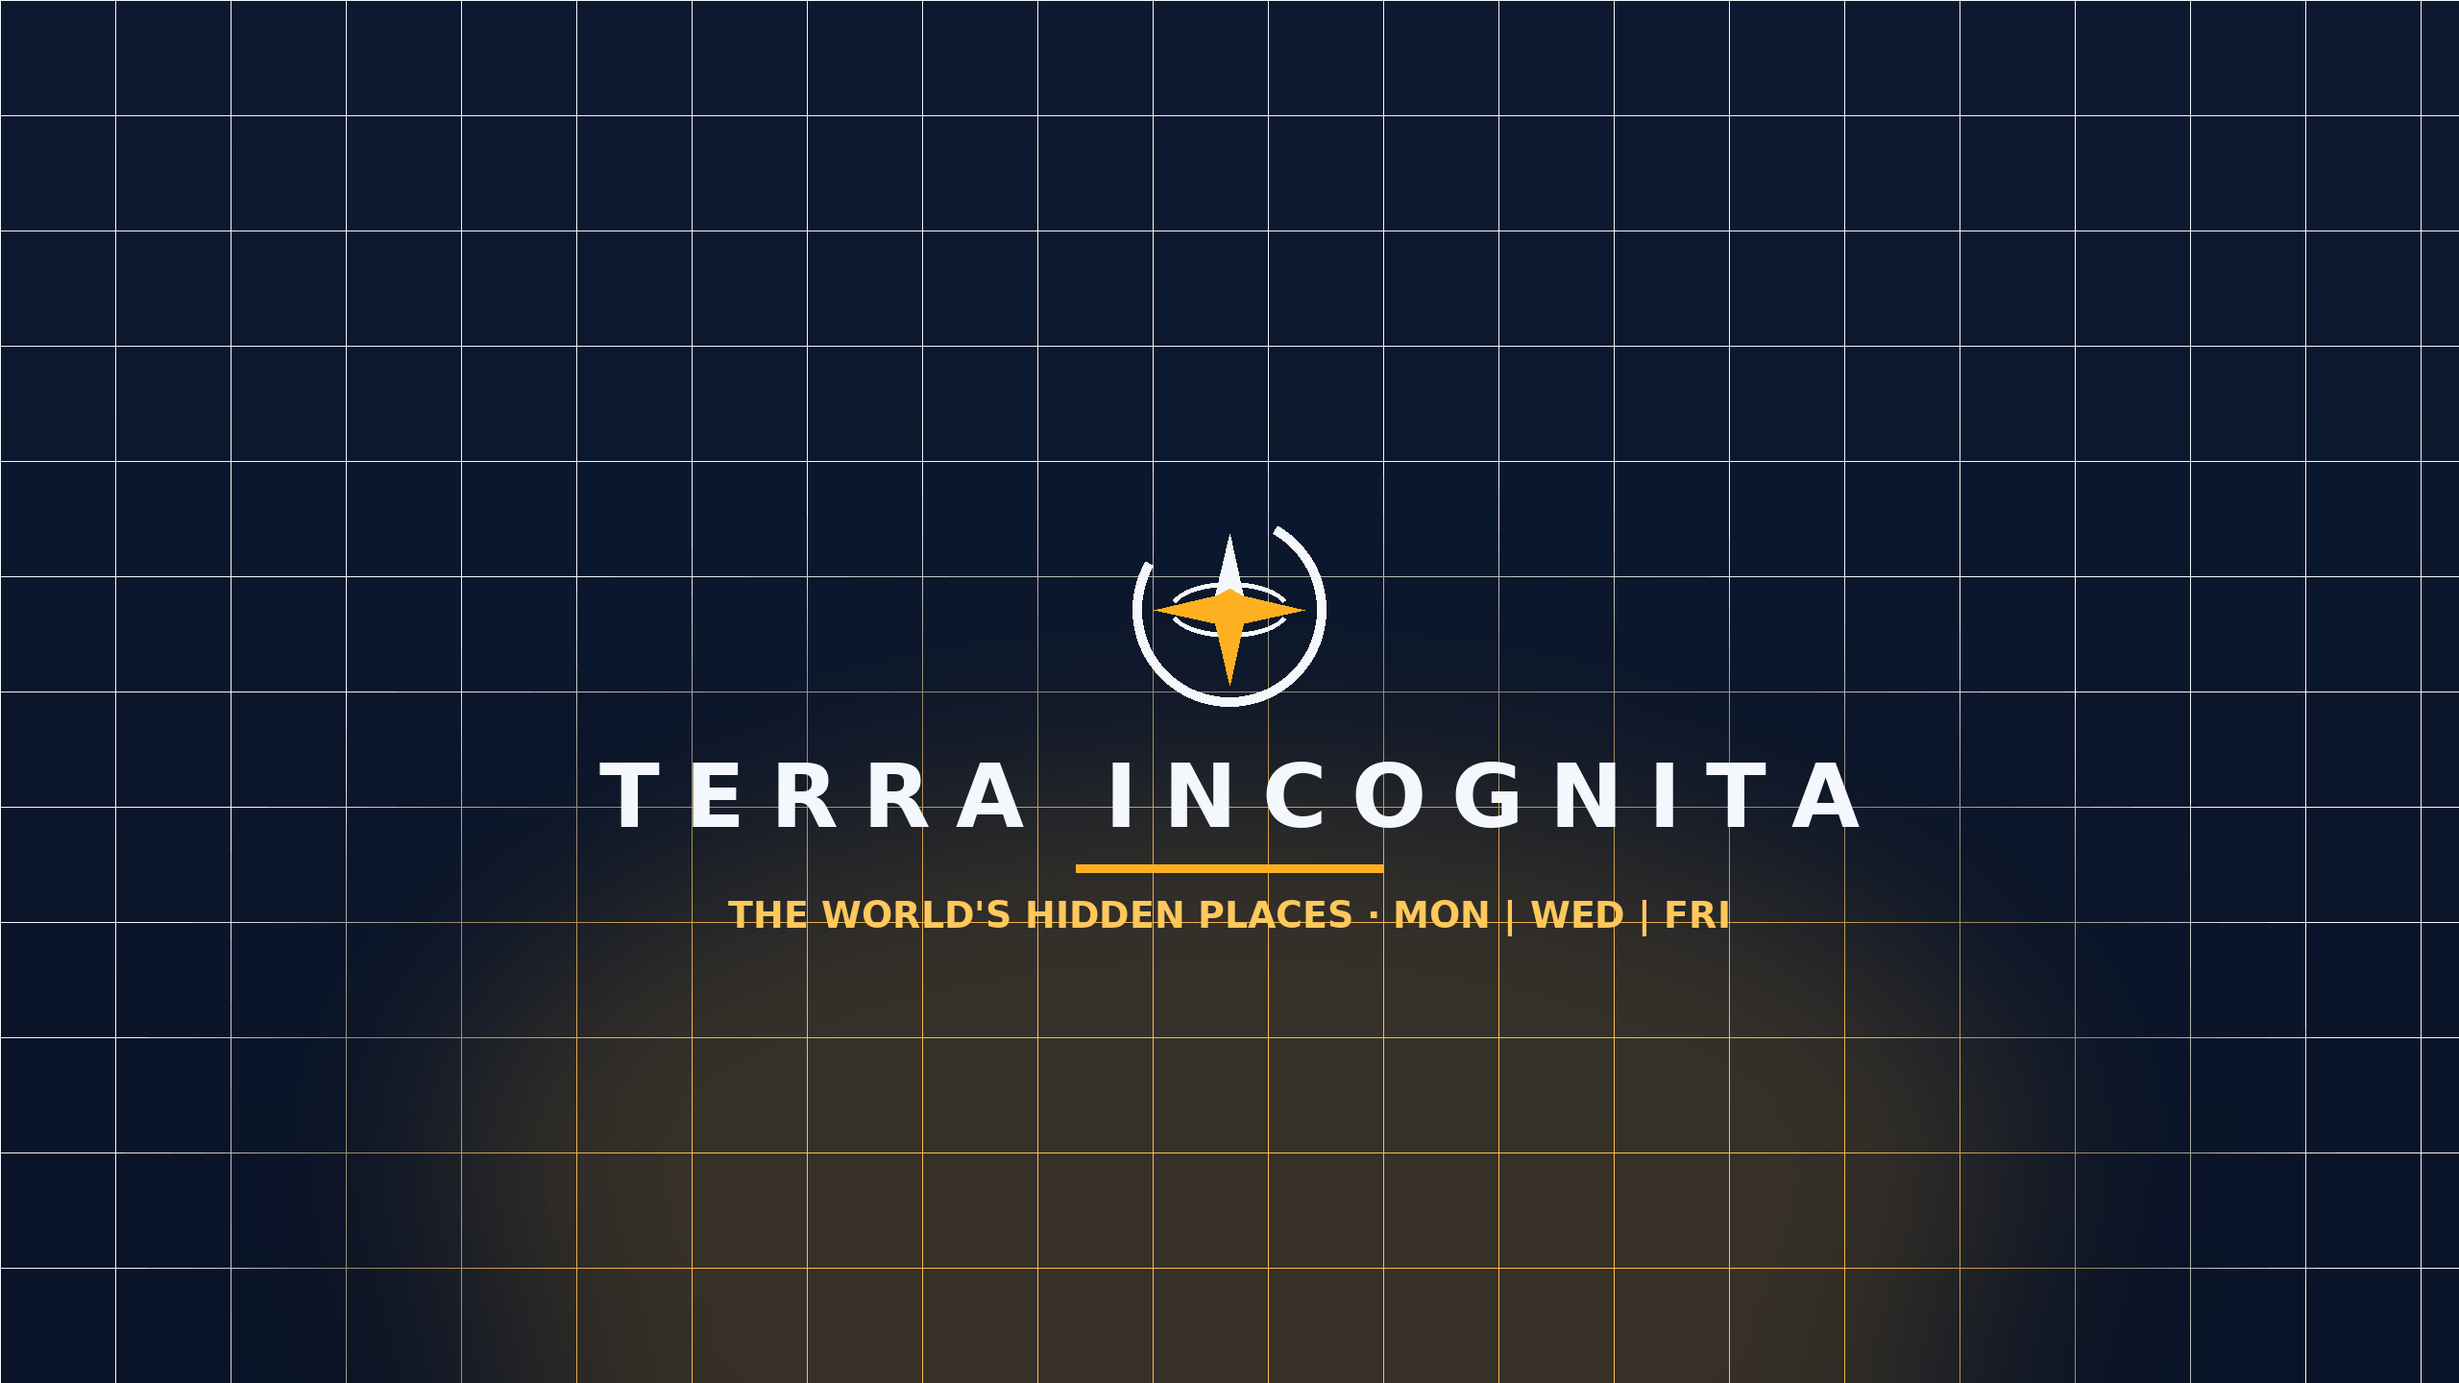
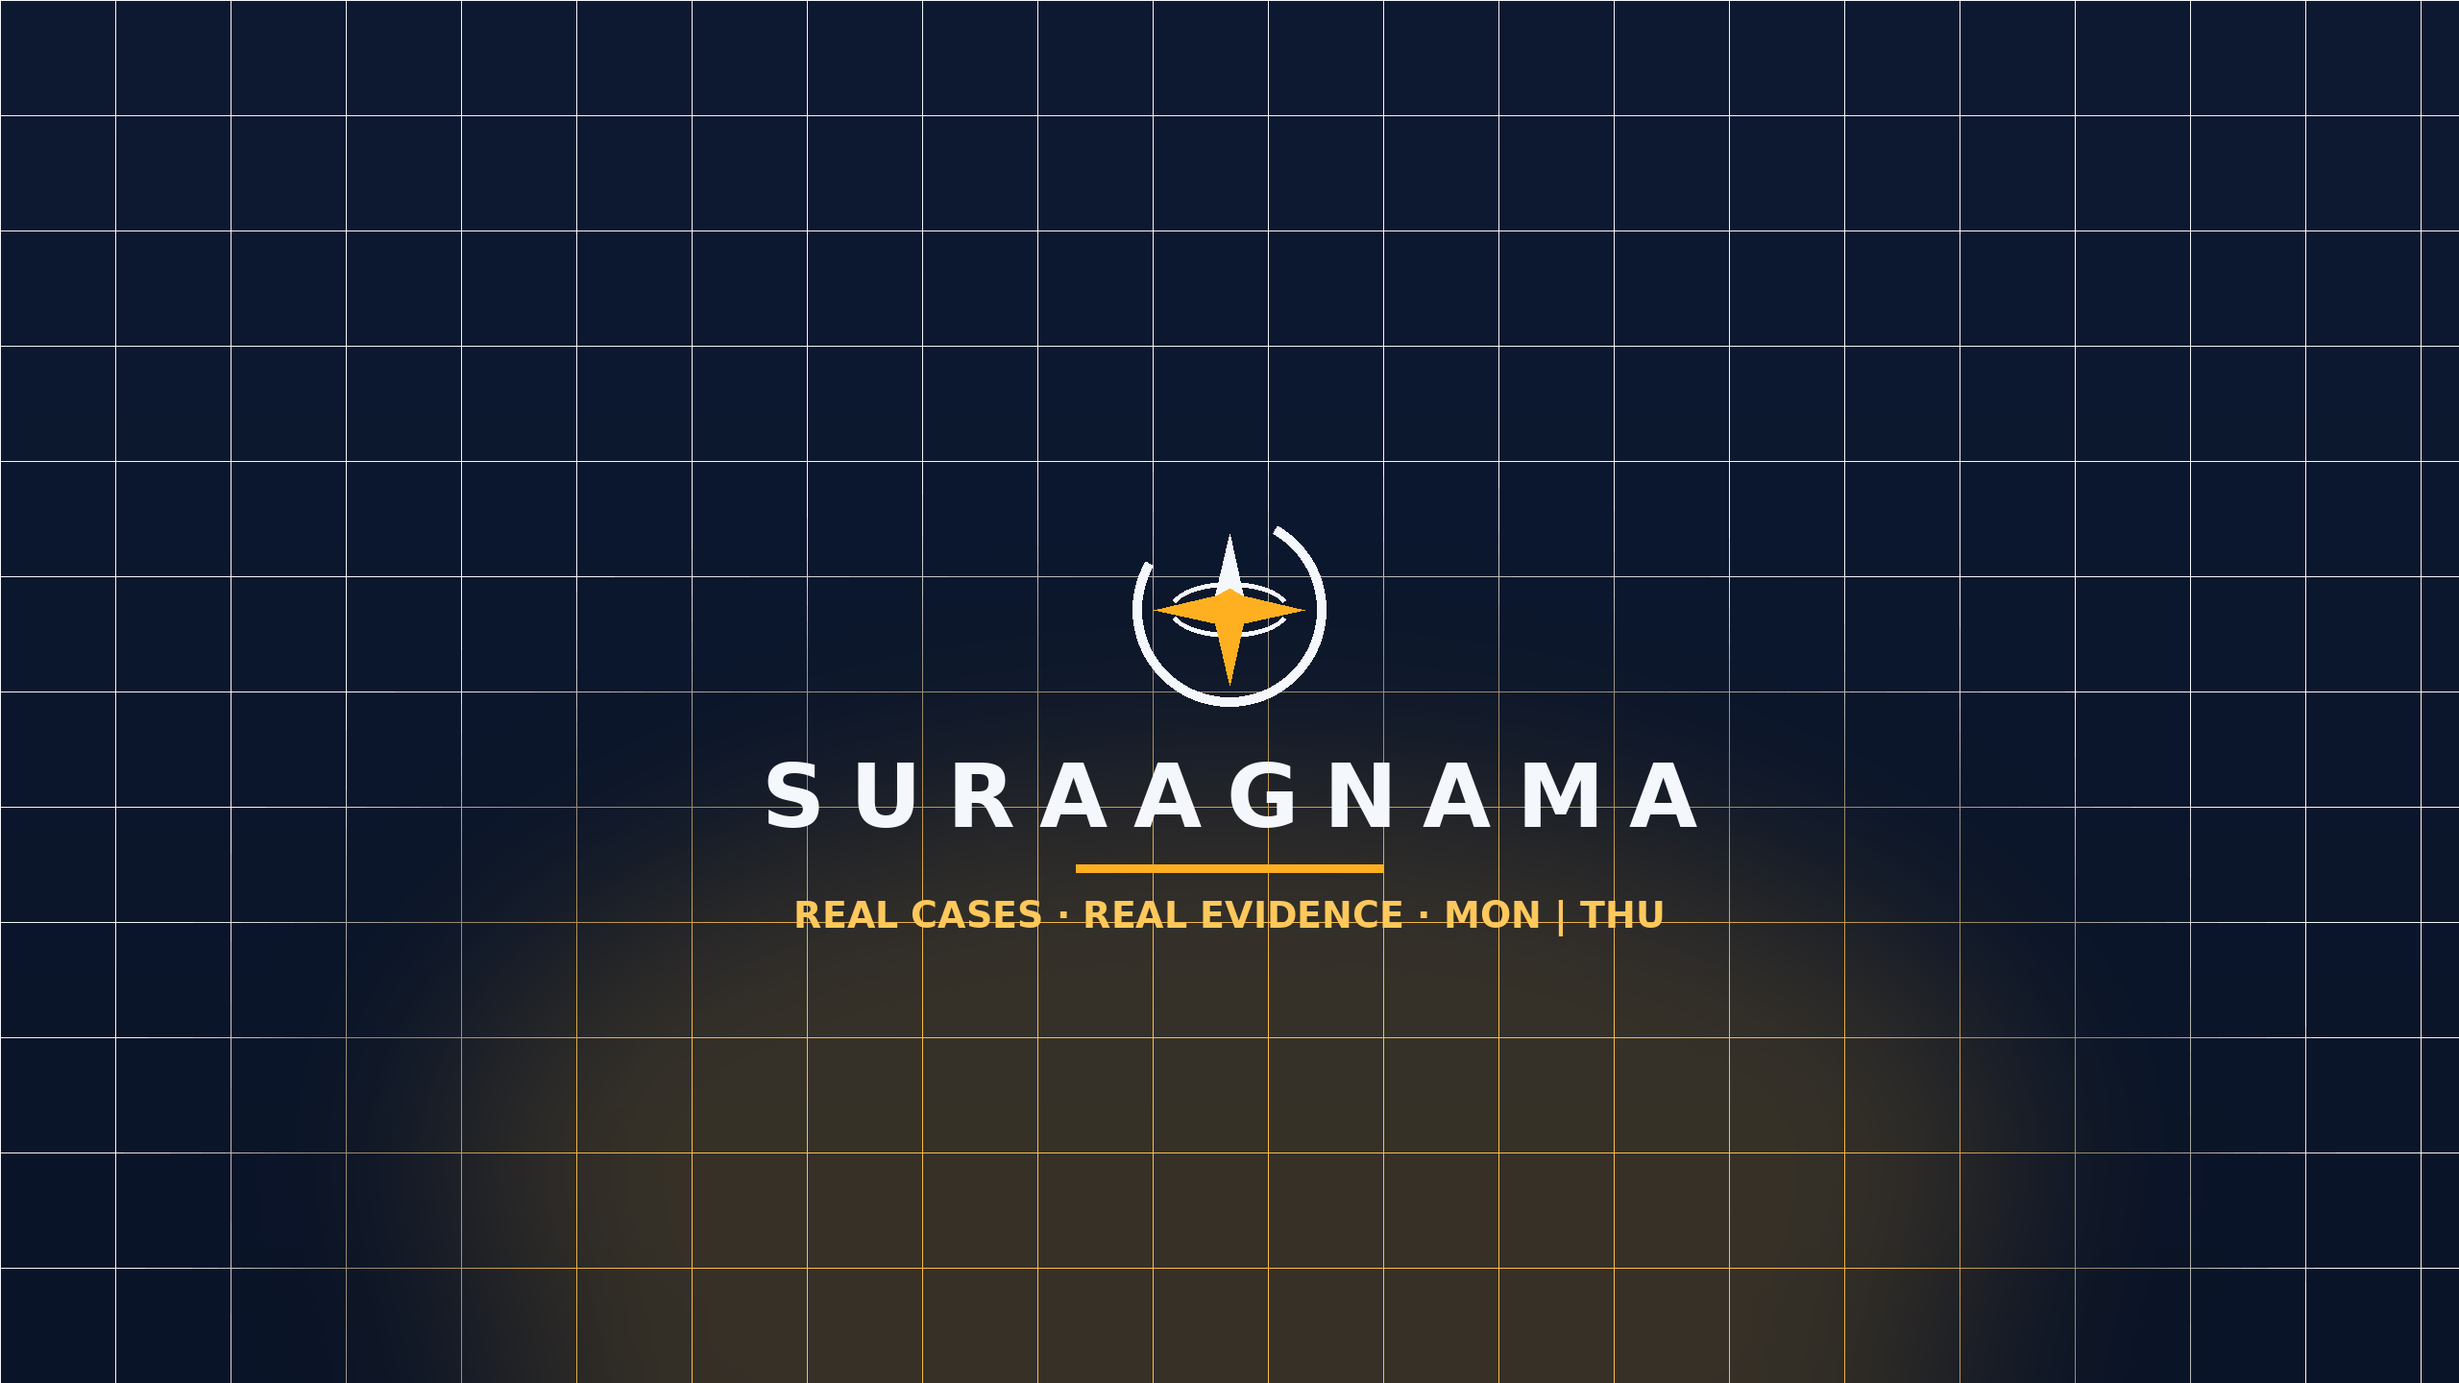
Rebrand: Terra Incognita -> SURAAGNAMA (सुरागनामा)
"Terra Incognita" is Latin, unspellable for a Hindi audience, and still
promises the space/deep-sea channel the August CASE_FILE_PIVOT retired. The
28-day export shows YouTube Search converting at 0:00:27 across 302
impressions, and 183 new viewers against 8 returning and 0 regular — a recall
failure a name nobody can repeat cannot fix.

SURAAGNAMA is सुराग (clue) + -नामा, the Indo-Persian suffix for a written
record (रोज़नामा, बयाननामा, इक़रारनामा): "the record of clues". It names the
engine the pivot doc specifies — clue -> theory -> problem, every scene — and
the -नामा register reads as a records office rather than a ghost story, which
is the separation from the horror-coded Hindi mystery channels the thumbnails
already engineer. The palette does not move: #0A1428 and #FFB020 are why the
thumbnails don't look like that niche.

Handle @suraagnama verified free by direct fetch. NOTE for anyone revisiting
this: web search does NOT screen YouTube names — six of ten candidates we
checked were occupied by live channels and none of them appeared in search
results (@sabootnama and @khamoshsaboot are both Hindi mystery-case channels;
@khulifile and @filekhol are Hindi news). Fetch youtube.com/@handle and look
for a 404. Never brand on the bare word सुराग: that belongs to SAB Network's
Suraag Special and Doordarshan's Suraag - The Clue.

Also fixes metadata that has been stale since the pivot, independent of the
[…]

Changed region(s): [[0.25, 0.5312, 0.75, 0.625], [0.3125, 0.625, 0.7188, 0.6875]]

diff --git a/remotion/src/Root.tsx b/remotion/src/Root.tsx
@@ -18,13 +18,13 @@ const FALLBACK = {
   style: 'documentary',
   accent: '#FFB020',
   progressBar: true,
-  brandName: 'TERRA INCOGNITA',
-  brandTagline: "Mapping the world's hidden places",
+  brandName: 'SURAAGNAMA',
+  brandTagline: 'असली केस। असली सबूत। बिना जवाब के सवाल।',
   watermarkPath: null as string | null,
   watermarkOpacity: 0.08,
   outroSeconds: 4,
   captionY: 0.78,
-  title: 'Terra Incognita',
+  title: 'Suraagnama',
   thumbText: 'PREVIEW',
   thumbAiPath: null as string | null,
   motionSeed: 'preview',

diff --git a/remotion/src/Main.tsx b/remotion/src/Main.tsx
@@ -342,8 +342,8 @@ export const Main: React.FC<{manifest: Manifest}> = ({manifest: m}) => {
   items.push(
     <TransitionSeries.Sequence key="outro" durationInFrames={outroFrames}>
       <Outro
-        brandName={m.brandName || 'TERRA INCOGNITA'}
-        tagline={m.brandTagline || "Mapping the world's hidden places"}
+        brandName={m.brandName || 'SURAAGNAMA'}
+        tagline={m.brandTagline || 'असली केस। असली सबूत। बिना जवाब के सवाल।'}
         style={style}
         watermarkPath={m.watermarkPath}
       />

diff --git a/remotion/src/Thumb.tsx b/remotion/src/Thumb.tsx
@@ -81,7 +81,7 @@ export const Thumb: React.FC<{manifest: Manifest}> = ({manifest: m}) => {
           <Img src={staticFile(m.watermarkPath)} style={{width: 26, height: 26}} />
         ) : null}
         <span style={{color: BRAND.text, fontSize: 21, fontWeight: 800,
-          letterSpacing: 4}}>TERRA INCOGNITA</span>
+          letterSpacing: 4}}>SURAAGNAMA</span>
       </div>
 
       {/* dramatic Devanagari headline, top-right */}

diff --git a/remotion/src/graphics.tsx b/remotion/src/graphics.tsx
@@ -239,7 +239,7 @@ const FallbackGraphic: React.FC<{
         opacity: 0.58, boxShadow: `0 0 24px ${style.accent}`}} />
       <div style={{position: 'absolute', left: '7%', bottom: '7%',
         color: 'rgba(205,216,236,0.62)', fontSize: 18, fontWeight: 700,
-        letterSpacing: 5}}>TERRA INCOGNITA · EVIDENCE MAP</div>
+        letterSpacing: 5}}>SURAAGNAMA · EVIDENCE MAP</div>
     </Canvas>
   );
 };

diff --git a/pipeline/run.py b/pipeline/run.py
@@ -1,4 +1,4 @@
-"""Faceless Autopilot — orchestrator (Terra Incognita edition, Hindi).
+"""Faceless Autopilot — orchestrator (Suraagnama edition, Hindi).
 
 topic -> script (Hindi) -> voiceover (Sarvam cloned voice, Kokoro fallback)
 -> assets (AI + stock, never-repeat log) -> captions -> Remotion render
@@ -108,26 +108,28 @@ def thumbnail_remotion(manifest_path: str, workdir: str, thumb_path: str) -> Non
 # strongest text signal we control; the tag mix decides which Hindi cluster
 # we land in. (Per-video "Video language: Hindi" in Studio still matters most.)
 
-INDIA_DESC_HEADER = ("\U0001F1EE\U0001F1F3 \u0939\u093f\u0902\u0926\u0940 \u092e\u0947\u0902 space \u0914\u0930 science \u0915\u0940 \u0916\u094b\u091c \u2014 TERRA INCOGNITA\n\n")
+INDIA_DESC_HEADER = ("🇮🇳 असली केस, असली सबूत — अनसुलझे रहस्य हिंदी में | सुरागनामा\n\n")
 
 # Evergreen Hindi discovery tags — what an Indian viewer actually types.
-BASE_HINDI_TAGS = ["\u0939\u093f\u0902\u0926\u0940 \u092e\u0947\u0902 \u0935\u093f\u091c\u094d\u091e\u093e\u0928",       # हिंदी में विज्ञान
-                   "\u0935\u093f\u091c\u094d\u091e\u093e\u0928 \u0915\u0947 \u0930\u0939\u0938\u094d\u092f",              # विज्ञान के रहस्य
-                   "\u092c\u094d\u0930\u0939\u094d\u092e\u093e\u0902\u0921 \u0915\u0947 \u0930\u0939\u0938\u094d\u092f",  # ब्रह्मांड के रहस्य
-                   "\u0905\u0902\u0924\u0930\u093f\u0915\u094d\u0937 \u0939\u093f\u0902\u0926\u0940",                        # अंतरिक्ष हिंदी
-                   "\u0939\u093f\u0902\u0926\u0940",                                                                                  # हिंदी
-                   "\u092d\u093e\u0930\u0924",                                                                                        # भारत
-                   "hindi science", "space hindi", "science in hindi",
-                   "hindi documentary"]
+# Post-CASE_FILE_PIVOT these name the case-file cluster, NOT space/science:
+# the first two description lines and this tag mix decide which Hindi cluster
+# YouTube files the channel under.
+BASE_HINDI_TAGS = ["असली केस",
+                   "अनसुलझा रहस्य",
+                   "रहस्यमयी घटना",
+                   "अनसुलझे रहस्य",
+                   "सच्ची कहानी",
+                   "हिंदी",
+                   "भारत",
+                   "hindi mystery", "unsolved mystery hindi",
+                   "real case hindi", "hindi documentary"]
 
 # Hinglish search terms — how young Indian viewers actually type on mobile.
-HINGLISH_TAGS = ["vigyan hindi", "brahmand rahasya", "antariksh hindi"]
+HINGLISH_TAGS = ["asli case hindi", "ansuljha rahasya", "rahasyamayi ghatna"]
 
-SUBSCRIBE_CTA = ("\U0001F514 \u0910\u0938\u0940 \u0939\u0940 \u0916\u094b\u091c\u094b\u0902 \u0915\u0947 \u0932\u093f\u090f "
-                 "\u0938\u092c\u094d\u0938\u0915\u094d\u0930\u093e\u0907\u092c \u0915\u0930\u0947\u0902 \u2014 "
-                 "TERRA INCOGNITA")   # 🔔 ऐसी ही खोजों के लिए सब्सक्राइब करें
-BASE_HASHTAGS = ["#\u0939\u093f\u0902\u0926\u0940", "#\u0935\u093f\u091c\u094d\u091e\u093e\u0928",
-                 "#\u092d\u093e\u0930\u0924"]   # #हिंदी #विज्ञान #भारत
+SUBSCRIBE_CTA = ("\U0001F514 ऐसी ही फ़ाइलों के लिए सब्सक्राइब करें — "
+                 "सुरागनामा")   # 🔔 ऐसी ही फ़ाइलों के लिए सब्सक्राइब करें
+BASE_HASHTAGS = ["#हिंदी", "#रहस्य", "#असलीकेस"]
 
 
 def _india_tags(tags: list, is_short: bool = False) -> list:
@@ -1289,7 +1291,7 @@ def main() -> None:
 
 *Assets: Pexels + licensed AI images{(' + Wikimedia Commons' if commons_credits else '')}. Voice: {voice_line}
 (your cloned Sarvam voice; Kokoro Apache-2.0 fallback). Motion design:
-Remotion. Brand: Terra Incognita.*
+Remotion. Brand: Suraagnama.*
 """
     with open(os.path.join(outdir, "metadata.md"), "w", encoding="utf-8") as f:
         f.write(meta)

diff --git a/brand/generate_brand.py b/brand/generate_brand.py
@@ -1,4 +1,4 @@
-"""Terra Incognita brand kit generator (deep navy + amber).
+"""Suraagnama brand kit generator (deep navy + amber).
 
 Regenerates every static brand asset deterministically with PIL:
   logo.png (2000x500 transparent)  logo_mark.png (1024)  banner.png (2560x1440)
@@ -84,7 +84,7 @@ def wordmark(d: ImageDraw.ImageDraw, xy, size: int, spacing: int = None):
     x, y = xy
     f1 = font(size)
     spacing = spacing if spacing is not None else int(size * 0.28)
-    for ch in "TERRA INCOGNITA":
+    for ch in "SURAAGNAMA":
         d.text((x, y), ch, font=f1, fill=TEXT)
         x += d.textlength(ch, font=f1) + spacing
     return x
@@ -98,7 +98,7 @@ def make_logo():
     end_x = wordmark(d, (520, 150), 130)
     d.rectangle([520, 330, end_x - 36, 342], fill=AMBER)
     f2 = font(44)
-    d.text((524, 368), "MAPPING THE WORLD'S HIDDEN PLACES", font=f2,
+    d.text((524, 368), "REAL CASES · REAL EVIDENCE · NO ANSWERS", font=f2,
            fill=AMBER_SOFT)
     img.save(os.path.join(OUT, "logo.png"))
 
@@ -131,7 +131,7 @@ def make_banner():
     mark = draw_mark(240)
     img.paste(mark, (cx - 120, cy - 205), mark)
     f1 = font(92)
-    text = "TERRA INCOGNITA"
+    text = "SURAAGNAMA"
     spacing = 26
     total = sum(d.textlength(ch, font=f1) + spacing for ch in text) - spacing
     x = cx - total / 2
@@ -140,7 +140,7 @@ def make_banner():
         x += d.textlength(ch, font=f1) + spacing
     d.rectangle([cx - 160, cy + 180, cx + 160, cy + 188], fill=AMBER)
     f2 = font(38)
-    sub = "THE WORLD'S HIDDEN PLACES · MON | WED | FRI"
+    sub = "REAL CASES · REAL EVIDENCE · MON | THU"
     d.text((cx - d.textlength(sub, font=f2) / 2, cy + 210), sub, font=f2,
            fill=(255, 200, 92, 255))
     img.convert("RGB").save(os.path.join(OUT, "banner.png"))

diff --git a/tests/test_quality_report.py b/tests/test_quality_report.py
@@ -139,7 +139,7 @@ def test_description_leads_with_devanagari_and_ends_with_hashtags():
     ns = _meta_ns()
     out = ns["build_description"](SCRIPT, is_short=False, chapters="0:00 शुरुआत")
     assert out.startswith("\U0001F1EE\U0001F1F3")          # 🇮🇳 first
-    assert "TERRA INCOGNITA" in out.split("\n")[0]
+    assert "सुरागनामा" in out.split("\n")[0]
     assert "मंगल पर पहला कदम" in out                        # body preserved
     assert "0:00 शुरुआत" in out                             # chapters inline
     assert "सब्सक्राइब" in out                               # Hindi CTA
@@ -156,9 +156,9 @@ def test_short_description_has_shorts_hashtag_and_no_chapters():
 def test_tags_are_hindi_first_and_within_youtube_limit():
     ns = _meta_ns()
     tags = ns["_india_tags"](SCRIPT["tags"])
-    assert tags[0] == "हिंदी में विज्ञान"        # evergreen Hindi leads
+    assert tags[0] == "असली केस"                 # the case-file cluster leads
     assert "मंगल ग्रह" in tags                    # topic tags preserved
-    assert "hindi science" in tags
+    assert "hindi mystery" in tags
     assert sum(len(t) + 2 for t in tags) <= 500   # YouTube hard limit
     assert len(tags) == len(set(t.lower() for t in tags))  # deduped
 

diff --git a/brand/BRAND.md b/brand/BRAND.md
@@ -1,7 +1,28 @@
-# Terra Incognita — Brand Kit
+# सुरागनामा · Suraagnama — Brand Kit
 
 **Identity:** a compass star inside a deliberately broken ring — the gap is
-the *unknown* the channel explores. Deep navy space, amber discovery.
+the clue the file is still missing. Deep navy archive, amber evidence.
+
+**The name:** सुराग (*clue*) + -नामा, the Indo-Persian suffix for a written
+record — रोज़नामा, बयाननामा, इक़रारनामा. "The record of clues": a case file in
+one Indian word, in a documentary register rather than a horror one. Handle
+`@suraagnama` (verified free 2026-08-22 — availability was checked by fetching
+the handle directly; web search does NOT surface small channels and returns
+clean for names that are already taken).
+
+**Never brand on the bare word सुराग.** It belongs to SAB Network's *Suraag
+Special* and Doordarshan's *Suraag – The Clue*. The full token is what's
+distinct, and it's what the channel owns.
+
+## Promise
+
+**असली केस। असली सबूत। बिना जवाब के सवाल।**
+Banner line: **हर फ़ाइल में एक सवाल बाकी है।**
+Closing line: **फ़ाइल बंद हो गई — सुराग अब भी बाकी है।**
+
+The channel name never opens an episode. The cold-open contract
+(docs/CASE_FILE_PIVOT.md) puts the impossible human moment first; names,
+places and dates only after the viewer cares. Branding lives on the outro.
 
 ## Palette
 
@@ -34,7 +55,7 @@ Bold (metrically close, available in CI).
 ## In-video branding (automatic, every render)
 
 Corner watermark · amber progress bar · branded lower thirds & captions ·
-4-second outro end card ("New expeditions Mon · Wed · Fri") · branded
+4-second outro end card ("नई फ़ाइल — सोम · गुरु") · branded
 thumbnail template. Visual style packs rotate per video (documentary →
 kinetic → editorial → noir) but all draw from this palette, so the channel
 stays recognizable. Tokens live in `remotion/src/styles.ts` — keep hex values
